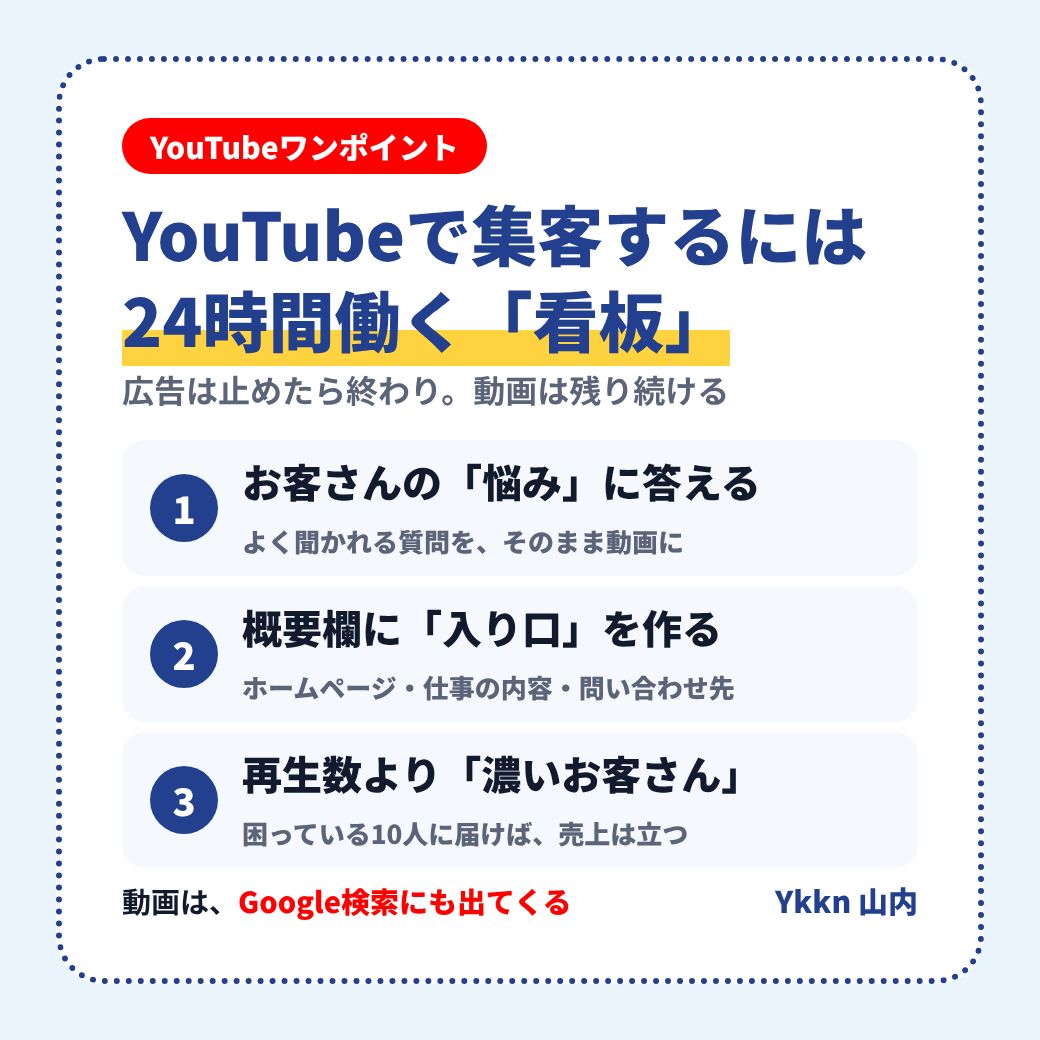
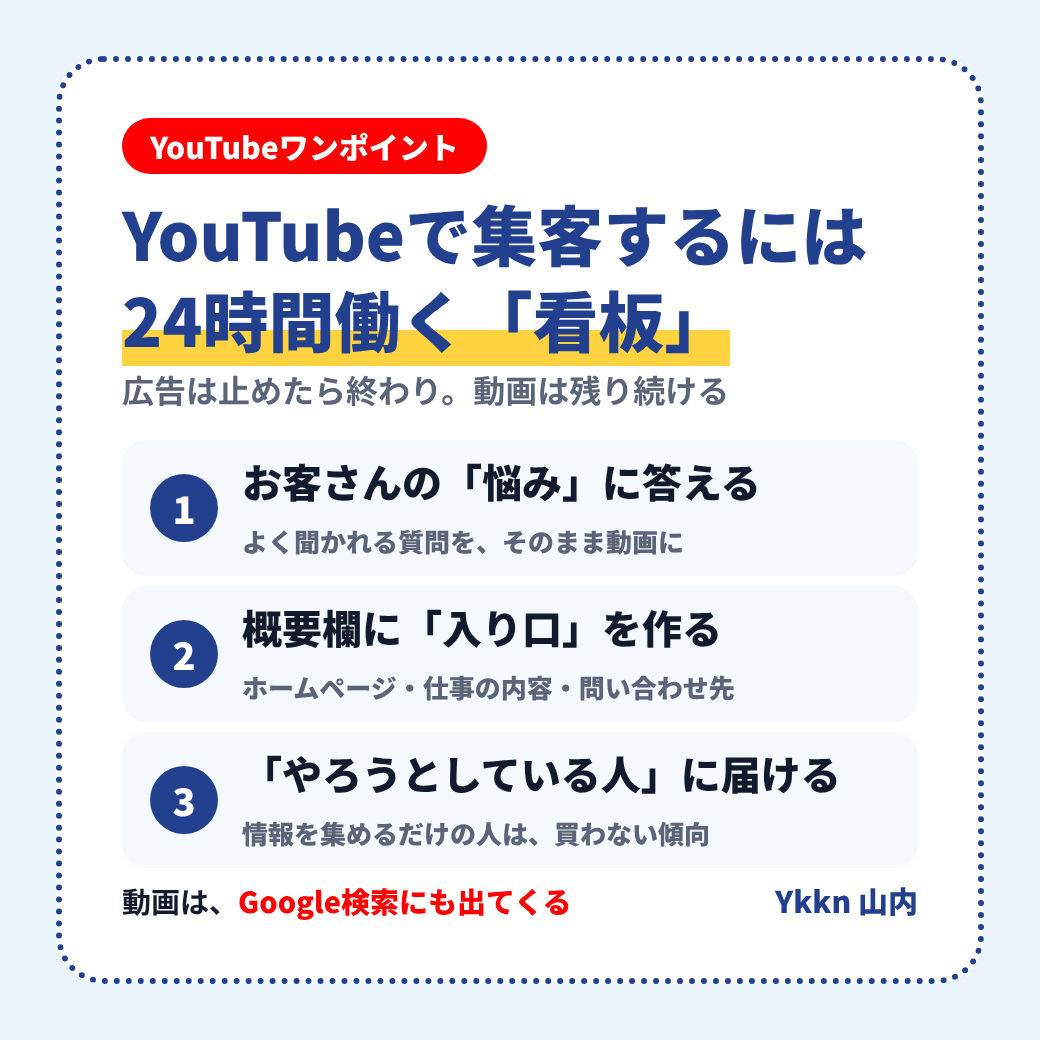
LINE配信18にオーナーの話（自分の経験・やろうとしている人へ）を追加
Claude-Session: https://claude.ai/code/session_013VCsDr4dsXas8bddMVCS79

Changed region(s): [[0.2154, 0.7077, 0.8, 0.8308]]

diff --git a/.company/crm/配信/18_役立つ情報_YouTubeで集客するには.md b/.company/crm/配信/18_役立つ情報_YouTubeで集客するには.md
@@ -4,7 +4,7 @@
 - 画像：`18_YouTubeで集客.png`
 - 状態：下書き（オーナー確認待ち）・配信予定の案：2026-12-08（火）19:56
 - ねらい：12/4の講習で名刺を配る → LINEに登録した人に最初に届く「役立つ情報」。
-- もと：オーナーの指示（11/23「YouTubeで」集客の話）。中身はセミナー台本v31（S6・S7・S14・S15・Q&A）でオーナーが話した内容から。新しい数字は入れていない。地名・紹介元は入れていない。
+- もと：オーナーの指示（11/23「YouTubeで」集客の話）＋11/24の話（YouTubeがきっかけでセミナー・案件。自分のチャンネルは集客向けではないので集客は見込めない。情報を取りに行っているだけの人は買わない傾向→具体的に取り入れてやろうとしている層に向けて作る）。中身はセミナー台本v31（S6・S7・S14・S15・Q&A）でオーナーが話した内容から。新しい数字は入れていない。地名・紹介元は入れていない。
 
 ```
 【YouTubeワンポイント】
@@ -24,6 +24,15 @@ Google検索にも出てきます。
 → お問い合わせ。
 こんな流れが、お金をかけずに作れます。
 
+僕自身も、YouTubeがきっかけで、
+セミナーのお話や、企業からのお仕事をいただくようになりました。
+
+ただ、僕のチャンネルは、もともと集客のためのチャンネルではありません。
+なので、もし集客に使おうとしても、
+そこまで多くのお客さんは見込めないと思っています。
+
+集客に使うなら、作り方が変わります。
+
 ■ ① お客さんの「悩み」に答える動画を作る
 自分の会社や商品の紹介だけでは、なかなか見られません。
 
@@ -38,11 +47,15 @@ Google検索にも出てきます。
 この3つだけは、必ず書いておきましょう。
 ここが、見ている人を「お客さん」に変える入り口です。
 
-■ ③ 再生数より「濃いお客さん」
-集客が目的なら、再生数が少なくても大丈夫です。
+■ ③ 「情報を集めている人」より「やろうとしている人」へ
+どのジャンルでも、情報を集めているだけの人は、
+なかなか商品を買ってくれない傾向があります。
 
-1万人に見られなくても、
-本当に困っている10人に届けば、売上は立ちます。
+大切なのは、その情報を取り入れて、
+「実際にやってみよう」としている人に向けて動画を作ること。
+
+集客が目的なら、再生数が少なくても大丈夫です。
+本当にやろうとしている10人に届けば、売上は立ちます。
 
 ただし、YouTubeが合う仕事と、
 1対1で話した方が合う仕事があります。
